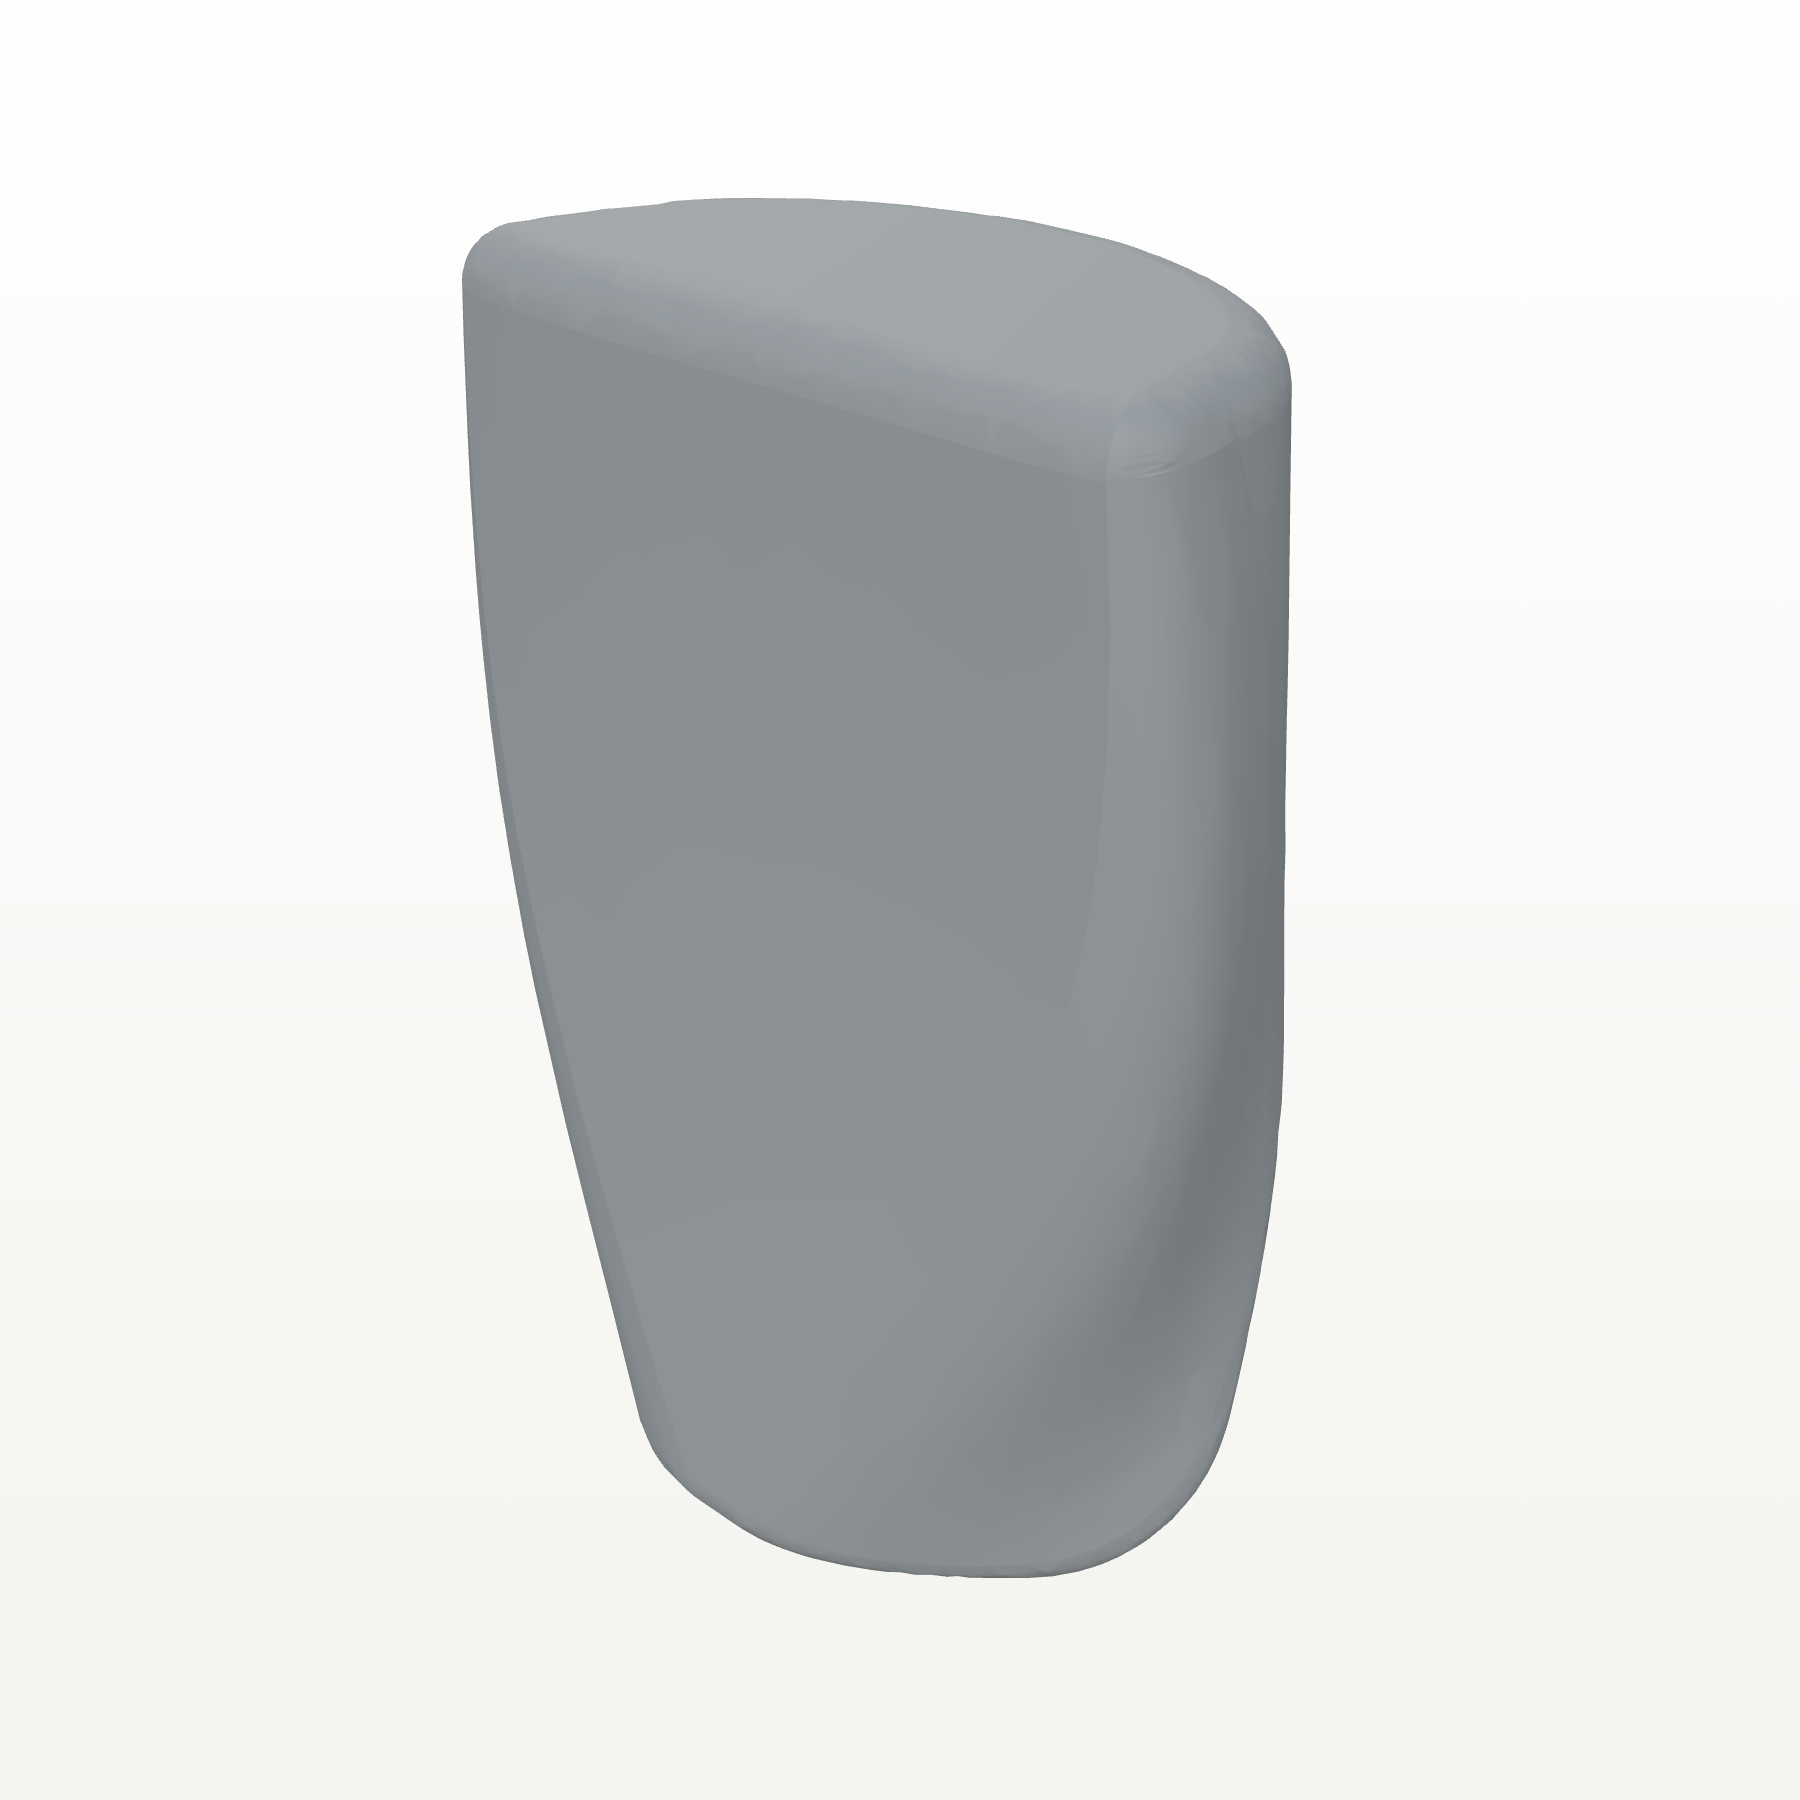
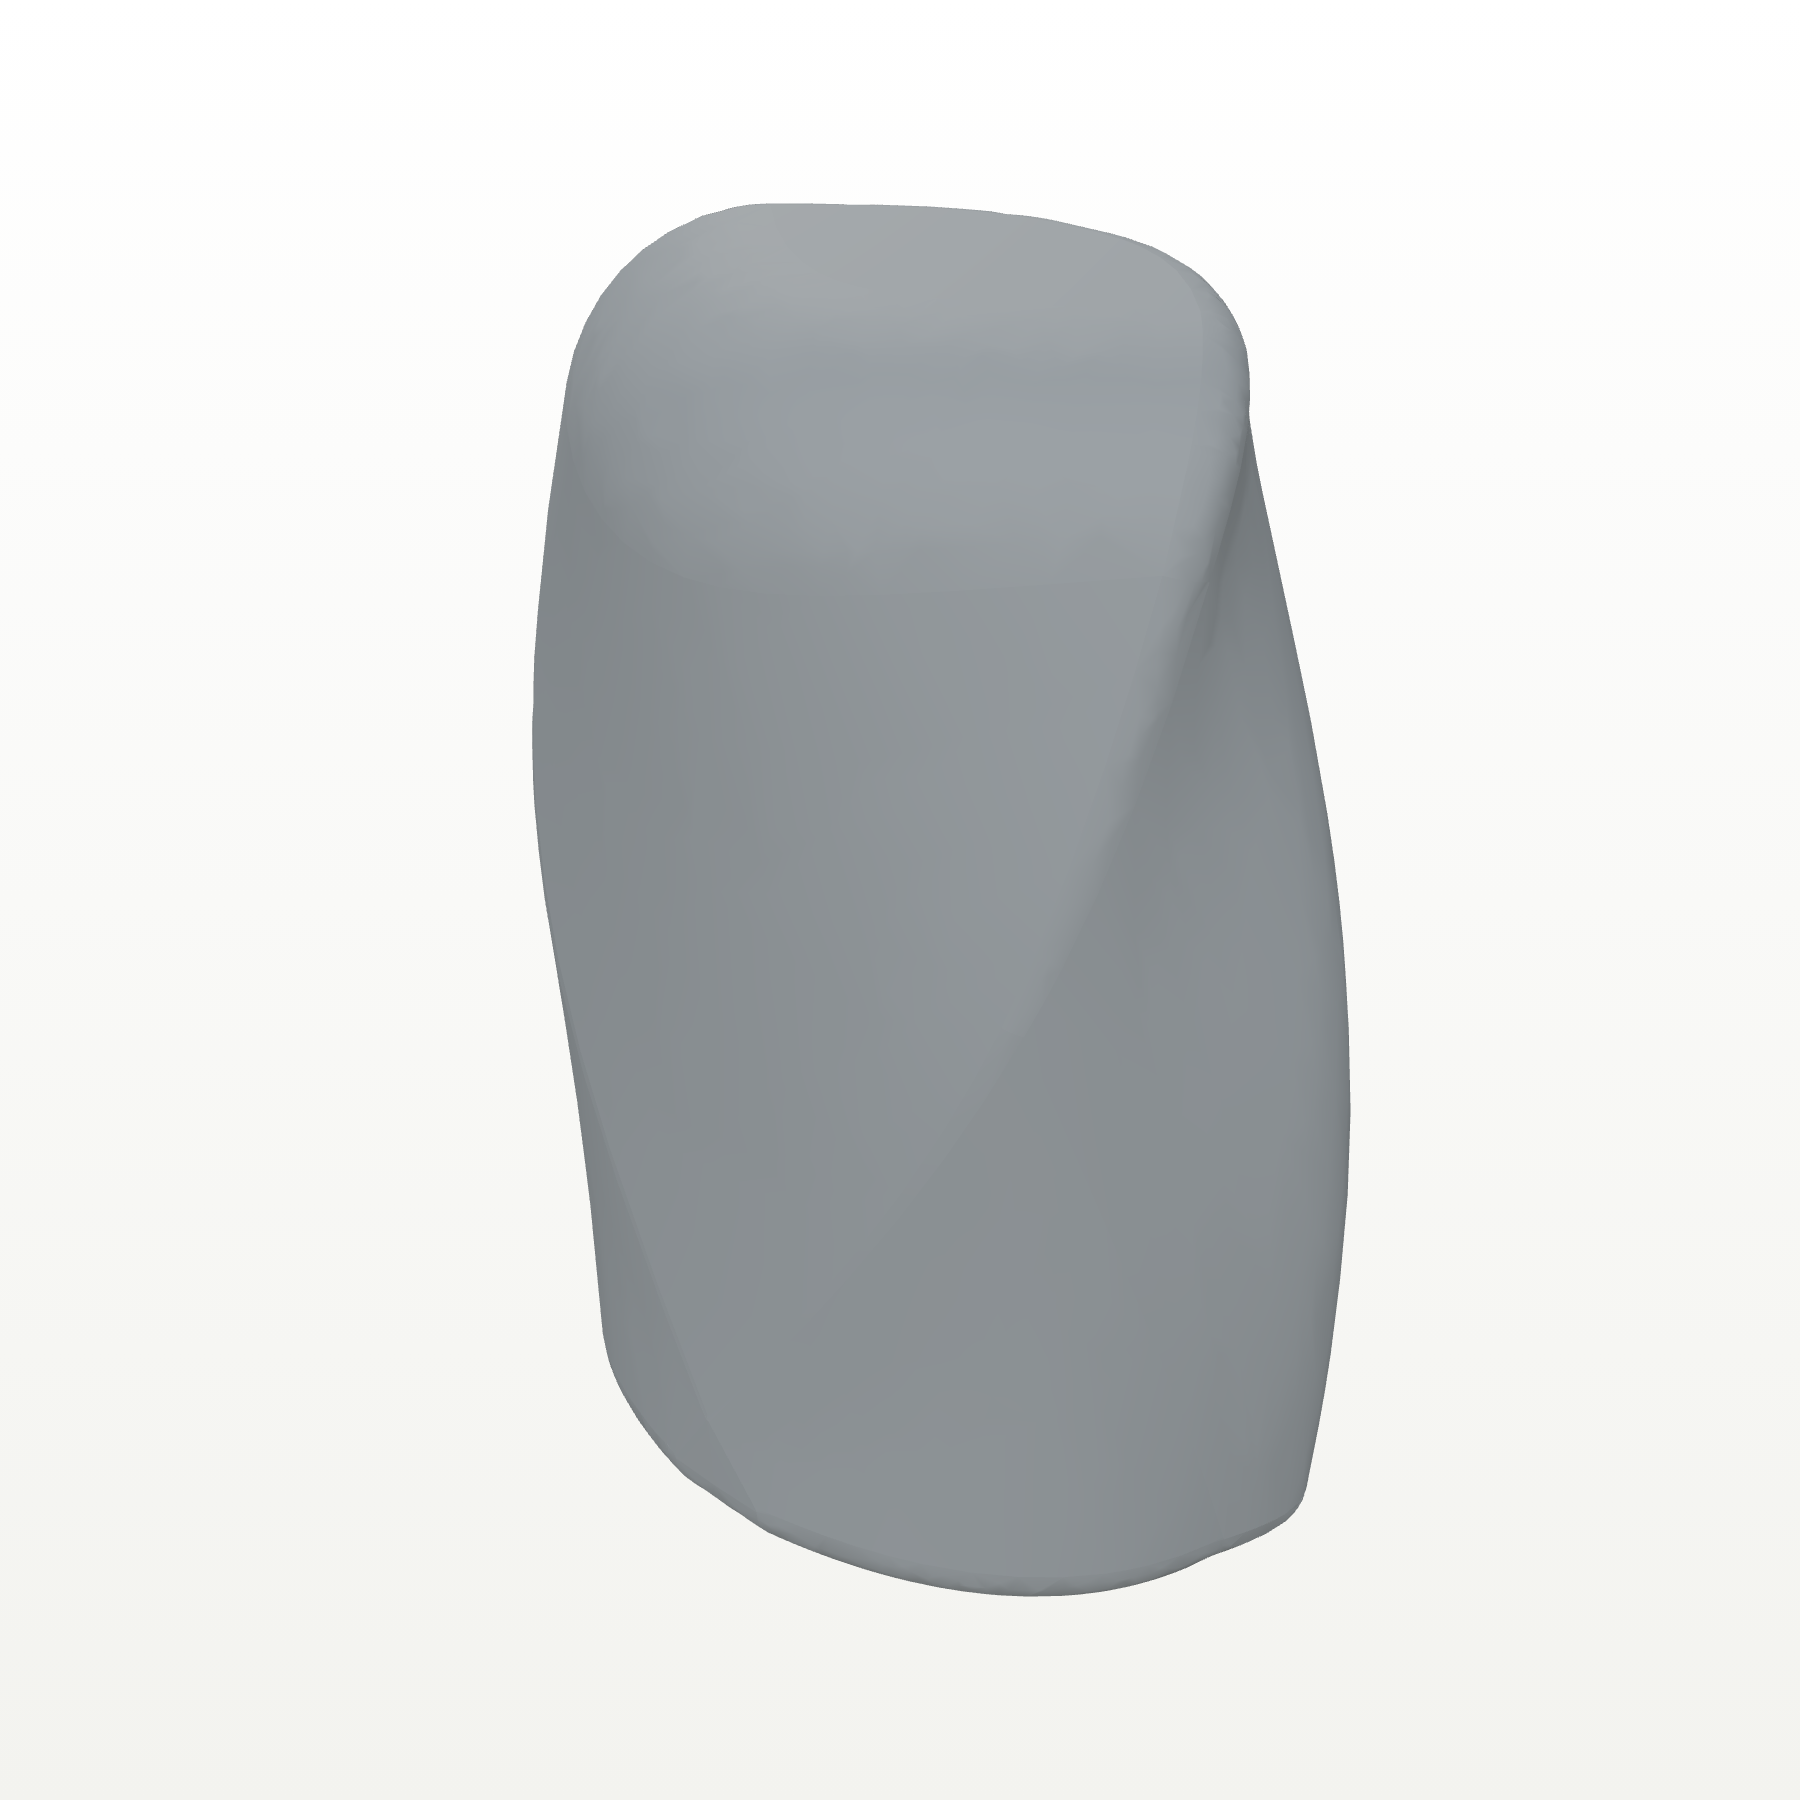
Correct bag thumbnail orientation

diff --git a/timber-ridge-daypack-development-clean/thumbnail-viewer.html b/timber-ridge-daypack-development-clean/thumbnail-viewer.html
@@ -173,7 +173,7 @@
         });
 
         group.rotation.x = -Math.PI / 2;
-        group.rotation.y = Math.PI;
+        group.rotateOnWorldAxis(new THREE.Vector3(0, 1, 0), Math.PI);
         scene.add(group);
         fitCameraToObject(group);
         renderer.render(scene, camera);

diff --git a/timber-ridge-daypack-development-clean/index.html b/timber-ridge-daypack-development-clean/index.html
@@ -1386,7 +1386,7 @@
       });
 
       group.rotation.x = -Math.PI / 2;
-      group.rotation.y = Math.PI;
+      group.rotateOnWorldAxis(new THREE.Vector3(0, 1, 0), Math.PI);
       return group;
     }
 
